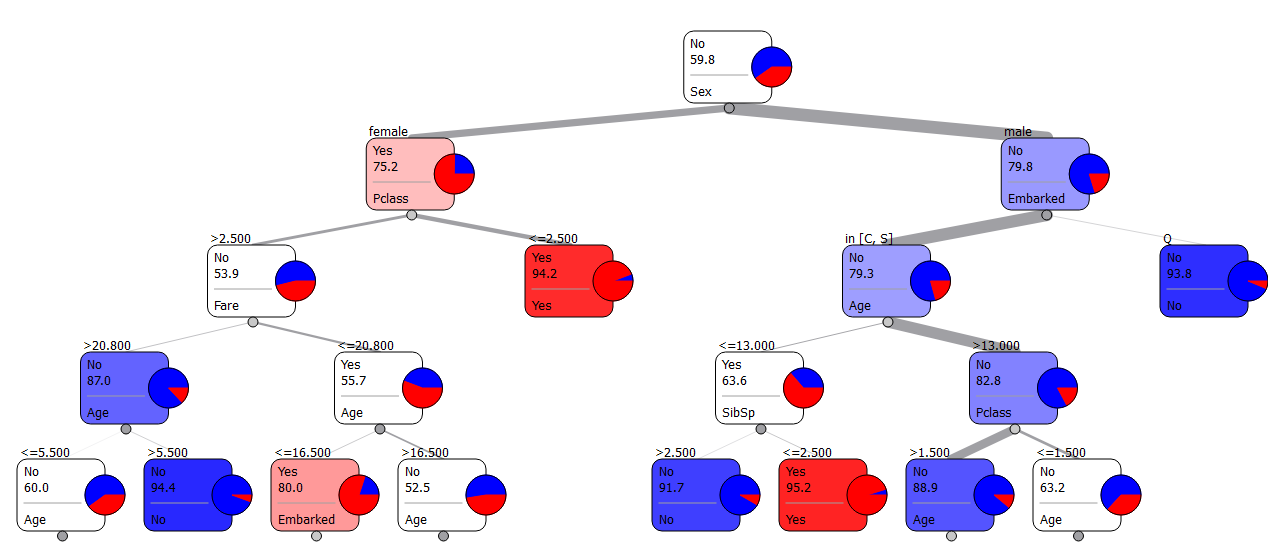
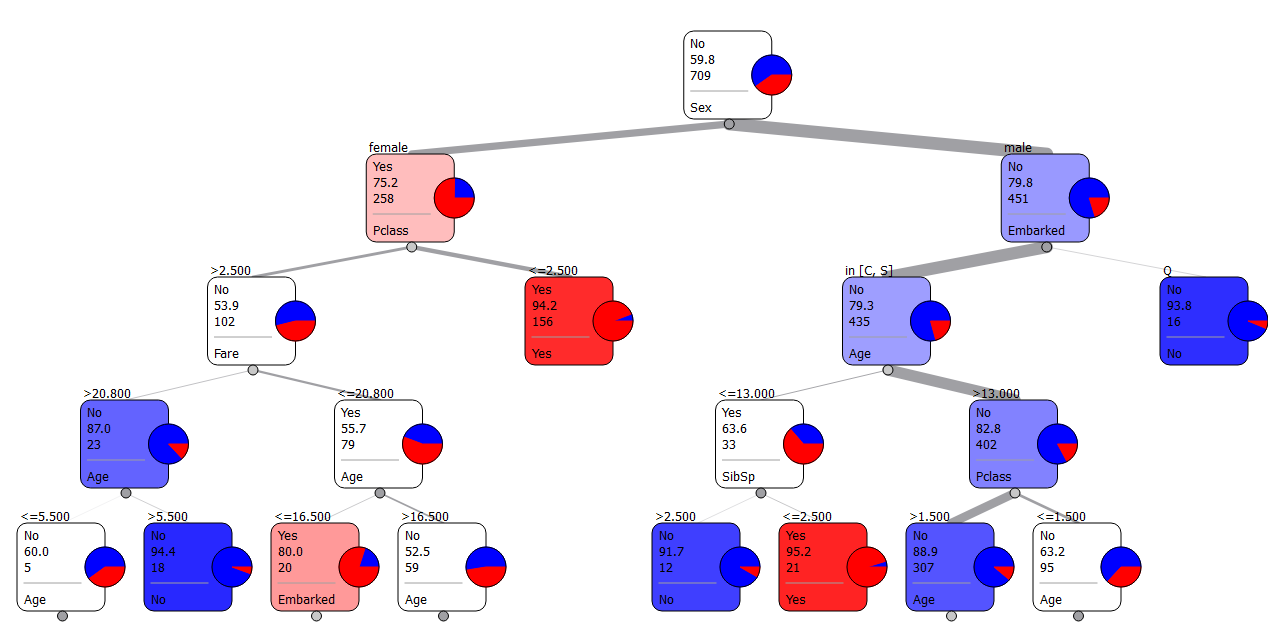
Classification tree done

diff --git a/MainTex.tex b/MainTex.tex
@@ -149,7 +149,7 @@ From the figure it is clear that the outliers of the 3 people who paid more than
 
 The total process in the orange framework can be seen in figure \ref{preprocessMap}. The discretize function is there to tell the orange frame work that the survival data is indeed discrete data. The meta data in this case is the passenger id, which is used for merging throughout the framework. Finally the discrete values of the survival variable is being renamed to "yes" and "no". The data is merged and sent out for further use.
 
-\begin{figure}
+\begin{figure}[h]
 	\begin{center}
 	\includegraphics[scale=0.7]{PreprocessMap}
 	\end{center}
@@ -168,13 +168,27 @@ The tree is created upon the information gain, it will be built from top to bott
 \label{classTreeMap}
 \end{figure}
 
-\subsubsection{Implementation}
-With the classificat 
-\subsubsection{Cross Validation}
-10 fold Cross validation
+\subsubsection{Implementation and analysis}
+Our classification tree is built using the standard gain value and splits in regard to whether a passenger survived. This means the information gain is based on whether we learn more about who died after the split. The resulting tree, taken to five nodes depth, is visible in figure \ref{classificationTree}.
+
+\begin{figure}[h]
+\begin{center}
+\includegraphics[scale=0.5]{ClassificationTree}
+\end{center}
+\caption{Classification tree on Titanic data set.}
+\label{classificationTree}
+\end{figure}
+
+From the figure there quickly arise an interesting distinction, namely that the females have a much greater chance of survival, compared to the males. Even at the first split into genders, the females have an astonishing survival rate of 75.2 percent. From there after a simple split in class, you see the females who are both middle or upper class, have a 94.2 percent chance of survival. From there it splits on the fare they paid, where the ones who paid the most dies the most. This can be explained in the fact that many of the upper class high paying females already have been sorted out. With this in mind, the fact that there is a difference i payment, though signification in survival rate, tells us little about why it is important. Next split is, for both sub-splits, where the younger age prevails in both cases. From there the splits yield very little information and have been excluded from this report.
+
+Looking at the male side of the tree, just by being male, you have 79.8 percent risk of dying. The first split in city of embarkation, if you were one of the 16 people from Queenstown, your chances of survival is only 6.2 percent. The passengers from the other cities fare a little better, but in order to have a decent chance of survival, you will need to be of age less than or equal to 13, and have less than 2.5 siblings or spouses.
+
+All in all this tells us if you wanted to survive on the titanic, your best choice would be to be an upper or middle class female. Failing that you should have been one of the lower class females which were younger than 16.5 years. This means, that for surviving the titanic as a female, your greatest chance occurs when you are young, when not in the upper class. 
+
+For males the greatest chance of survival occurs when you are less than or equal to 13 years of age, whilst having fever than 2.5 siblings, and have not embarked at Queenstown.
 \subsection{K-means Clustering}
 K-Means clustering\cite{KMeans} works by first defining K number of clusters, then you feed normalized data to the clustering algorithm, the algorithm chooses K-initial centroids and starts calculating the distance to each data point and then clusters the data around those centroids. After each loop the centroid is recalculated in accordance to all data points in cluster and then the algorithm recalculated the distance to every point. This loop continues until the algorithm runs its loop once without changing anything or is within the minimal change value.
-\subsubsection{Implementation}
+\subsubsection{Implementation and analysis}
 We decided to use K-Means Clustering in order to increase the accuracy of our Classification Tree by adding the clusters to the attribute of the original data.
 
 How ever after reclassifying with the clusters as an extra attribute we saw that it did not increase accuracy as expected. After looking into the clustered data we saw that the clustering and the classification focused on the same attributes so that did not help us in increasing accuracy.
